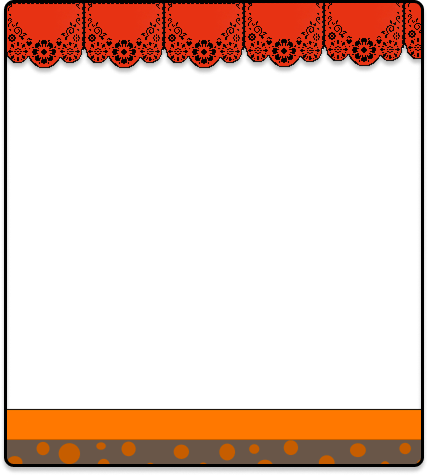
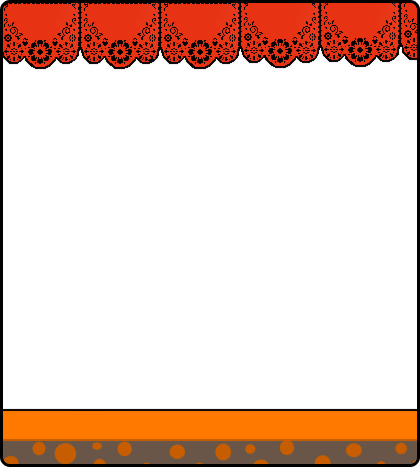
FEAT: added another layer to the game background

Changed region(s): [[0.0, 0.0, 1.0, 1.0]]

diff --git a/src/main.rs b/src/main.rs
@@ -132,6 +132,9 @@ async fn main() {
     // layer 1
     let layer1_bg: Texture2D = load_texture("assets/layer1.png").await.unwrap();
     layer1_bg.set_filter(FilterMode::Nearest);
+    // layer 2
+    let layer2_bg: Texture2D = load_texture("assets/layer2.png").await.unwrap();
+    layer2_bg.set_filter(FilterMode::Nearest);
 
     // Rounded button background
     let button_bg: Texture2D = load_texture("assets/button_background.png").await.unwrap();
@@ -166,6 +169,7 @@ async fn main() {
     let rect_y = (screen_height() - rect_h) / 2.0;
 
     loop {
+        println!("FPS: {}", get_fps());
         // Update currency
         money += rate_of_money;
 
@@ -195,7 +199,17 @@ async fn main() {
                 ..Default::default()
             },
         );
-
+        // draw layer 2
+        draw_texture_ex(
+            &layer2_bg,
+            rect_x + 417.0,
+            rect_y + 37.0,
+            WHITE,
+            DrawTextureParams {
+                dest_size: Some(vec2(420.0, 467.0)),
+                ..Default::default()
+            },
+        );
         // draw layer 1
         draw_texture_ex(
             &layer1_bg,
